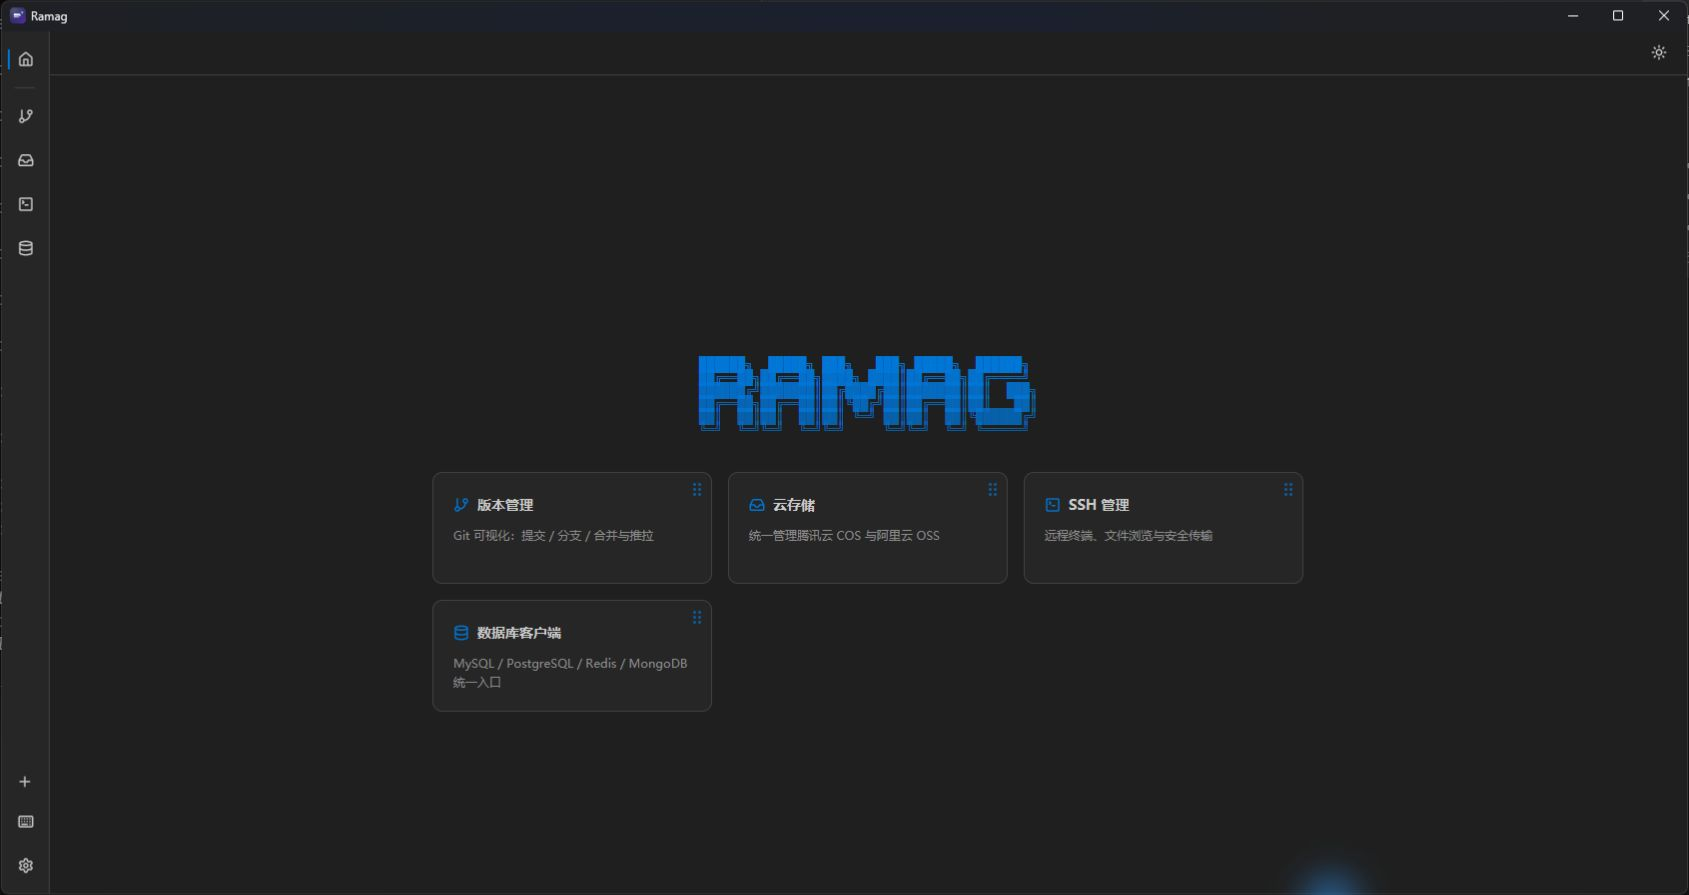
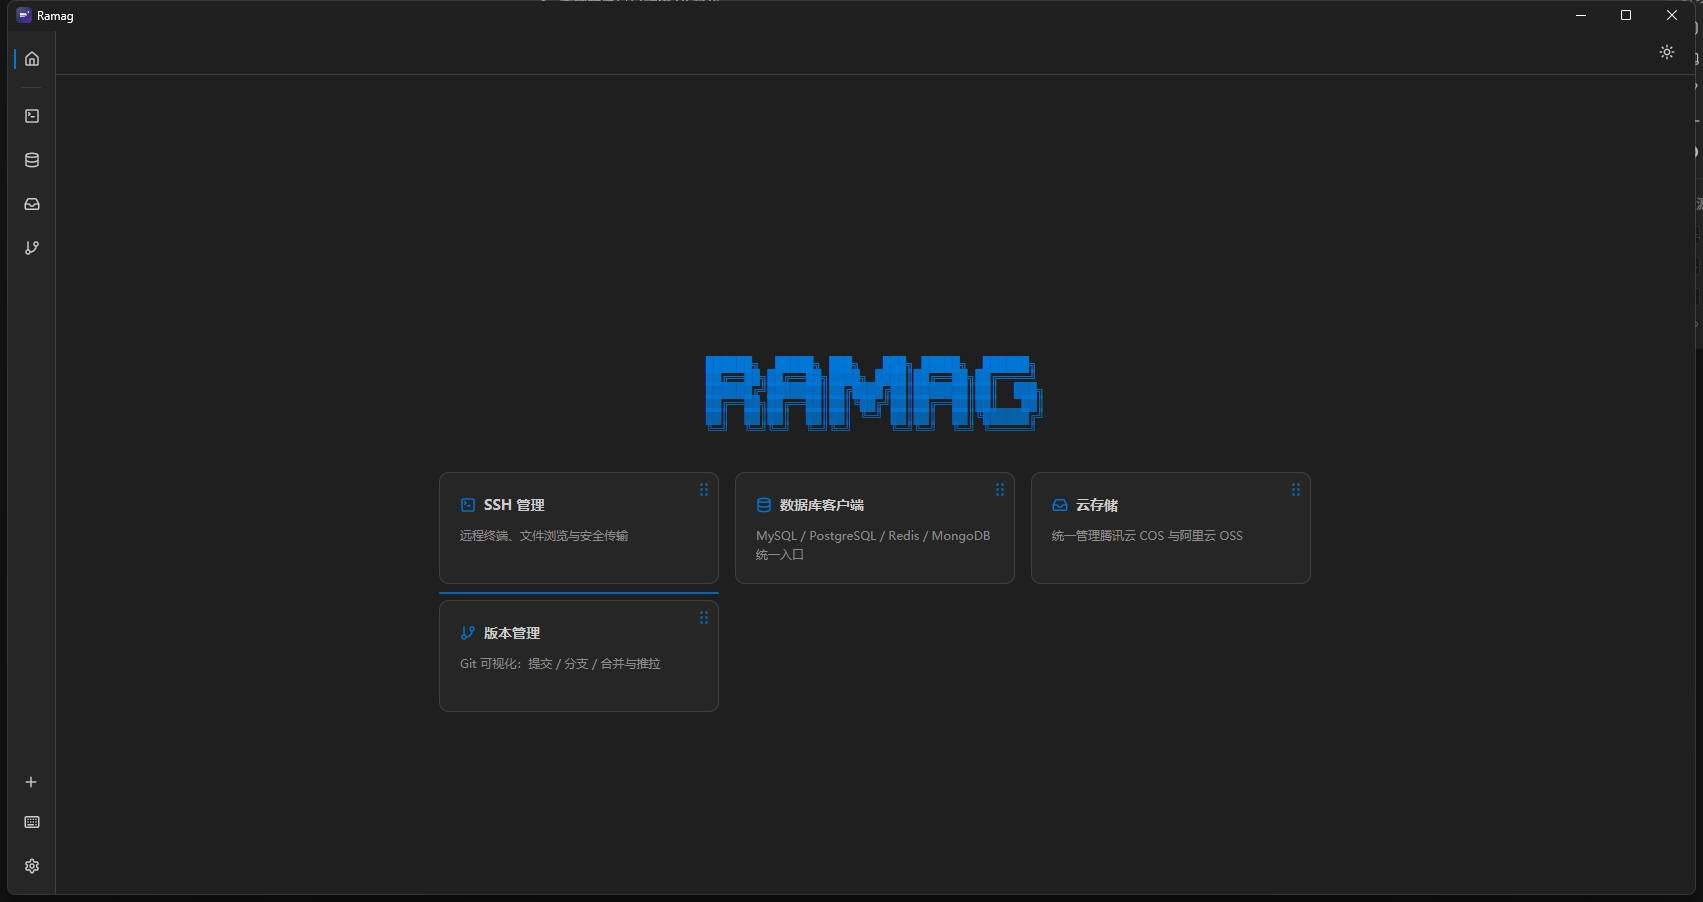
feat: show active tool drag preview

diff --git a/crates/ramag-ui/src/tool_layout.rs b/crates/ramag-ui/src/tool_layout.rs
@@ -1,9 +1,12 @@
-use gpui::{App, Context, Global, IntoElement, ParentElement, Render, Styled, Window, div, px};
-use gpui_component::{h_flex, v_flex};
+use gpui::{
+    App, Context, Global, IntoElement, ParentElement, Point, Render, Styled, Window, div, px,
+};
+use gpui_component::{ActiveTheme, Icon, h_flex, v_flex};
 use ramag_app::ToolRegistry;
 
 const ITEM_HEIGHT: f32 = 40.0;
 pub(crate) const ACTIVITY_ITEM_GAP: f32 = 4.0;
+pub(crate) const DRAGGED_ITEM_OPACITY: f32 = 0.45;
 
 /// 拖拽工具入口时在首页和侧栏之间传递的最小数据。
 #[derive(Debug, Clone)]
@@ -291,12 +294,101 @@ pub(crate) fn persist_tool_order(registry: &ToolRegistry, cx: &mut App) {
     }
 }
 
-/// 拖拽只传递排序数据，不绘制跟随指针的卡片；按钮自身仍保留原有 tooltip。
-pub(crate) struct ToolDragPreviewPlaceholder;
+/// 拖拽预览保留来源工具的主要信息，并由 GPUI 按鼠标偏移绘制在最上层。
+#[derive(Clone)]
+pub(crate) struct ToolDragPreview {
+    surface: ToolDragSurface,
+    icon: Icon,
+    name: String,
+    description: String,
+    position: Point<gpui::Pixels>,
+}
 
-impl Render for ToolDragPreviewPlaceholder {
-    fn render(&mut self, _: &mut Window, _: &mut Context<Self>) -> impl IntoElement {
-        div().size(px(0.0))
+impl ToolDragPreview {
+    /// 创建固定尺寸拖拽预览；位置由 GPUI 的拖拽回调在开始拖动时补充。
+    pub(crate) fn new(
+        surface: ToolDragSurface,
+        icon: Icon,
+        name: impl Into<String>,
+        description: impl Into<String>,
+    ) -> Self {
+        Self {
+            surface,
+            icon,
+            name: name.into(),
+            description: description.into(),
+            position: Point::default(),
+        }
+    }
+
+    /// 保存 GPUI 提供的光标偏移，使预览内容以光标为中心跟随移动。
+    pub(crate) fn position(mut self, position: Point<gpui::Pixels>) -> Self {
+        self.position = position;
+        self
+    }
+}
+
+impl Render for ToolDragPreview {
+    fn render(&mut self, _: &mut Window, cx: &mut Context<Self>) -> impl IntoElement {
+        let theme = cx.theme();
+        let border = theme.border;
+        let card_bg = theme.secondary;
+        let accent = theme.accent;
+        let foreground = theme.foreground;
+        let muted_foreground = theme.muted_foreground;
+
+        match self.surface {
+            ToolDragSurface::Home => div()
+                .pl(self.position.x - px(140.0))
+                .pt(self.position.y - px(56.0))
+                .child(
+                    v_flex()
+                        .w(px(280.0))
+                        .h(px(112.0))
+                        .p(px(20.0))
+                        .gap(px(10.0))
+                        .border_1()
+                        .border_color(border)
+                        .rounded(px(10.0))
+                        .bg(card_bg)
+                        .shadow_md()
+                        .child(
+                            h_flex()
+                                .items_center()
+                                .gap(px(8.0))
+                                .child(self.icon.clone().text_color(accent))
+                                .child(
+                                    div()
+                                        .text_sm()
+                                        .font_weight(gpui::FontWeight::SEMIBOLD)
+                                        .text_color(foreground)
+                                        .child(self.name.clone()),
+                                ),
+                        )
+                        .child(
+                            div()
+                                .text_xs()
+                                .text_color(muted_foreground)
+                                .child(self.description.clone()),
+                        ),
+                ),
+            ToolDragSurface::ActivityBar => div()
+                .pl(self.position.x - px(24.0))
+                .pt(self.position.y - px(20.0))
+                .child(
+                    h_flex()
+                        .w(px(48.0))
+                        .h(px(40.0))
+                        .items_center()
+                        .justify_center()
+                        .border_1()
+                        .border_color(border)
+                        .rounded(px(6.0))
+                        .bg(card_bg)
+                        .shadow_md()
+                        .child(self.icon.clone().text_color(accent)),
+                ),
+        }
     }
 }
 

diff --git a/crates/ramag-ui/src/home_view.rs b/crates/ramag-ui/src/home_view.rs
@@ -16,11 +16,11 @@ use ramag_app::ToolRegistry;
 
 use crate::activity_bar::ActivityBar;
 use crate::tool_layout::{
-    HomeDropLayout, ToolDrag, ToolDragGlobal, ToolDragPreviewPlaceholder, ToolDragSurface,
-    ToolDropSide, ToolLayoutGlobal, begin_tool_drag, clear_tool_drag, home_drop_indicator,
-    home_drop_target_from_position, notify_tool_layout_changed, persist_tool_order,
-    tool_drag_display_slots, tool_drag_handle, tool_drag_state, tool_drop_index,
-    update_tool_drop_target,
+    DRAGGED_ITEM_OPACITY, HomeDropLayout, ToolDrag, ToolDragGlobal, ToolDragPreview,
+    ToolDragSurface, ToolDropSide, ToolLayoutGlobal, begin_tool_drag, clear_tool_drag,
+    home_drop_indicator, home_drop_target_from_position, notify_tool_layout_changed,
+    persist_tool_order, tool_drag_display_slots, tool_drag_handle, tool_drag_state,
+    tool_drop_index, update_tool_drop_target,
 };
 
 #[derive(Debug, Clone)]
@@ -81,6 +81,7 @@ impl HomeView {
 }
 
 impl Render for HomeView {
+    /// 将持久化工具顺序绘制为首页网格，并同步拖拽占位线与来源卡片反馈。
     fn render(&mut self, window: &mut Window, cx: &mut Context<Self>) -> impl IntoElement {
         let theme = cx.theme();
         let muted_fg = theme.muted_foreground;
@@ -137,9 +138,13 @@ impl Render for HomeView {
             let name = tool.meta().name.clone();
             let description = tool.meta().description.clone();
             let icon = ActivityBar::icon_for_tool(id);
+            let preview_icon = icon.clone();
+            let preview_name = name.clone();
+            let preview_description = description.clone();
             let drag = ToolDrag { id: id.clone() };
+            let is_dragged = drag_state.dragged_id.as_deref() == Some(id.as_str());
 
-            let card = v_flex()
+            let mut card = v_flex()
                 .id(card_id)
                 .w(px(TOOL_CARD_WIDTH))
                 .h(px(TOOL_CARD_HEIGHT))
@@ -155,9 +160,17 @@ impl Render for HomeView {
                 .on_click(cx.listener(move |_, _: &ClickEvent, _, cx| {
                     cx.emit(HomeEvent::OpenTool(id_for_click.clone()));
                 }))
-                .on_drag(drag, move |drag, _, _, cx| {
+                .on_drag(drag, move |drag, position, _, cx| {
                     begin_tool_drag(&drag.id, ToolDragSurface::Home, source_index, cx);
-                    cx.new(|_| ToolDragPreviewPlaceholder)
+                    cx.new(|_| {
+                        ToolDragPreview::new(
+                            ToolDragSurface::Home,
+                            preview_icon.clone(),
+                            preview_name.clone(),
+                            preview_description.clone(),
+                        )
+                        .position(position)
+                    })
                 })
                 .on_drop(cx.listener(move |this, drag: &ToolDrag, _, cx| {
                     this.complete_drop(&drag.id, source_index, cx);
@@ -183,6 +196,9 @@ impl Render for HomeView {
                         .right(px(10.0))
                         .child(tool_drag_handle(accent.opacity(0.65))),
                 );
+            if is_dragged {
+                card = card.opacity(DRAGGED_ITEM_OPACITY);
+            }
             let (from_x, from_y) =
                 reorder_animation_offset(&previous_slots, &display_slots, id, columns);
             let card = if from_x == px(0.0) && from_y == px(0.0) {

diff --git a/crates/ramag-ui/src/activity_bar.rs b/crates/ramag-ui/src/activity_bar.rs
@@ -20,11 +20,11 @@ use ramag_app::{ToolRegistry, UpdateCheckResult};
 use crate::PointerDropdownMenu as _;
 use crate::icons;
 use crate::tool_layout::{
-    ACTIVITY_ITEM_GAP, ToolDrag, ToolDragGlobal, ToolDragPreviewPlaceholder, ToolDragSurface,
-    ToolDropSide, ToolLayoutGlobal, activity_drop_indicator, activity_drop_target_from_position,
-    activity_reorder_animation_offset, begin_tool_drag, clear_tool_drag,
-    notify_tool_layout_changed, persist_tool_order, tool_drag_display_slots, tool_drag_state,
-    tool_drop_index, update_tool_drop_target,
+    ACTIVITY_ITEM_GAP, DRAGGED_ITEM_OPACITY, ToolDrag, ToolDragGlobal, ToolDragPreview,
+    ToolDragSurface, ToolDropSide, ToolLayoutGlobal, activity_drop_indicator,
+    activity_drop_target_from_position, activity_reorder_animation_offset, begin_tool_drag,
+    clear_tool_drag, notify_tool_layout_changed, persist_tool_order, tool_drag_display_slots,
+    tool_drag_state, tool_drop_index, update_tool_drop_target,
 };
 
 #[derive(Debug, Clone, PartialEq)]
@@ -170,6 +170,7 @@ impl ActivityBar {
 }
 
 impl Render for ActivityBar {
+    /// 将持久化工具顺序绘制为侧栏入口，并同步拖拽占位线与来源入口反馈。
     fn render(&mut self, _: &mut Window, cx: &mut Context<Self>) -> impl IntoElement {
         let theme = cx.theme();
         let tools = self.registry.list();
@@ -210,7 +211,8 @@ impl Render for ActivityBar {
             };
             let id_for_click = id.clone();
             let is_selected = matches!(&selected, NavTarget::Tool(s) if s == id);
-            let item = activity_item(
+            let is_dragged = drag_state.dragged_id.as_deref() == Some(id.as_str());
+            let mut item = activity_item(
                 ActivityItemConfig {
                     id: format!("tool-{id}").into(),
                     icon: Self::icon_for_tool(id),
@@ -228,6 +230,9 @@ impl Render for ActivityBar {
                 },
                 cx,
             );
+            if is_dragged {
+                item = item.opacity(DRAGGED_ITEM_OPACITY);
+            }
             let offset = activity_reorder_animation_offset(&previous_slots, &display_slots, id);
             let item = if offset == px(0.0) {
                 item.into_any_element()
@@ -427,6 +432,8 @@ fn activity_item(
         show_badge,
     } = decoration;
     let transparent = hsla(0.0, 0.0, 0.0, 0.0);
+    let preview_icon = icon.clone();
+    let preview_name = tooltip.clone();
     let mut button = crate::clickable_button(id.clone()).ghost();
     button = if !show_badge {
         button.icon(icon)
@@ -457,9 +464,17 @@ fn activity_item(
         };
         item = item
             .cursor_move()
-            .on_drag(drag, move |drag, _, _, cx| {
+            .on_drag(drag, move |drag, position, _, cx| {
                 begin_tool_drag(&drag.id, ToolDragSurface::ActivityBar, source_index, cx);
-                cx.new(|_| ToolDragPreviewPlaceholder)
+                cx.new(|_| {
+                    ToolDragPreview::new(
+                        ToolDragSurface::ActivityBar,
+                        preview_icon.clone(),
+                        preview_name.to_string(),
+                        String::new(),
+                    )
+                    .position(position)
+                })
             })
             .on_drop(cx.listener(move |this, drag: &ToolDrag, _, cx| {
                 this.complete_drop(&drag.id, source_index, cx);
